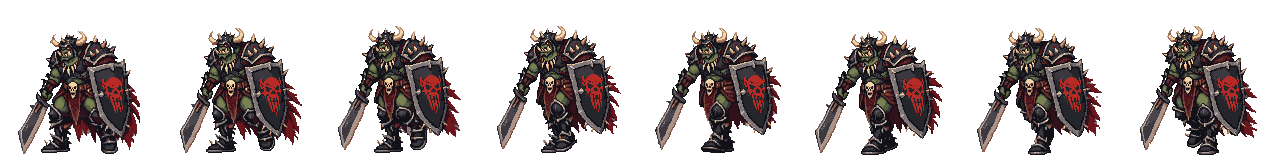
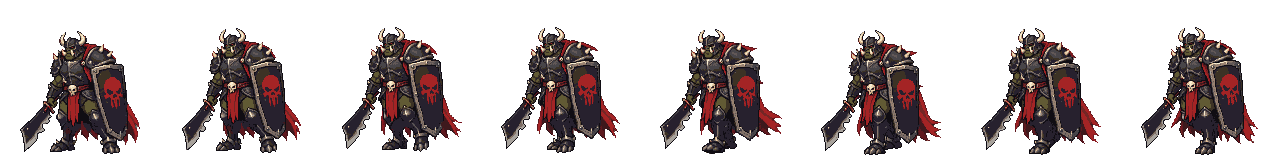
Revamp artstyle

Changed region(s): [[0.0, 0.1562, 1.0, 0.9688]]

diff --git a/js/game/render.js b/js/game/render.js
@@ -382,6 +382,69 @@ function placeScenery(g, table, imgs, x0, y0, w, h, on, inMap, seed) {
   scenery.sort((a, b) => a.y - b.y);
   return scenery;
 }
+/* The forest around the map, for the Pixel Lab terrain: thick far out, thinning toward the map (trees get rarer, bushes,
+   rocks, flowers and mushrooms take over near its edge), plus a few small things on the map itself (flowers, mushrooms,
+   a stone, a little bush) so the field is not cut off from the land around it; few enough not to get in the way. Never
+   on the road or right beside it, no tall tree right in front of the board. Same layout every time for a map (seeded).
+   DECO2 order: oak, pine, bush, rock, flowers, mushrooms. */
+const SMALL = [[0.35, 2], [0.55, 3], [0.8, 4], [1, 5]];   /* [chance up to, DECO2 index]: bush, rock, flowers, mushrooms */
+const FIELD = [[0.4, 4], [0.65, 5], [0.85, 3], [1, 2]];   /* on the map: mostly flowers and mushrooms */
+function placeForest(imgs, x0, y0, w, h, on, inMap, seed) {
+  const out = [], put = (d, x, y, k, ox, oy) => {
+    const s = TS * DECO2[d][2] * k;
+    out.push({ img: imgs[d], x: x * T + T / 2 + ox * T / TS, y: (y + 1) * T + oy * T / TS, s: s * T / TS, big: DECO2[d][2] > 1 });
+  };
+  const pick = (table, r) => table.find(e => r < e[0])[1];
+  for (let y = y0; y < y0 + h; y++) for (let x = x0; x < x0 + w; x++) {
+    if (on(x, y) || on(x, y - 1) || on(x, y + 1)) continue;
+    const r = tileHash(seed, x, y), r2 = tileHash(r * 1e9, x, y), r3 = tileHash(r * 7e8, y, x), ox = (r2 - 0.5) * 18, oy = (r3 - 0.5) * 14;
+    if (inMap(x, y)) {                                     /* the field: a handful of small things */
+      if (r < 0.045) put(pick(FIELD, r2), x, y, 0.75, ox, oy * 0.5 - 18);
+      continue;
+    }
+    const dx = x < 0 ? -x : x >= COLS ? x - COLS + 1 : 0, dy = y < 0 ? -y : y >= ROWS ? y - ROWS + 1 : 0, d = Math.max(dx, dy);
+    const front = y >= ROWS && y <= ROWS + 1 && x >= -1 && x <= COLS;   /* right in front of the board: nothing tall */
+    const tree = front ? 0 : Math.min(0.85, Math.max(0, (d - 1) * 0.15)), small = d <= 3 ? 0.14 : 0.06;
+    if (r < tree) {
+      put(r2 < 0.55 ? 0 : 1, x, y, 0.9 + r3 * 0.25, ox, oy);
+      if (d >= 5 && tileHash(r * 3e9, x, y) < tree * 0.7) put(r3 < 0.5 ? 0 : 1, x, y, 0.85 + r2 * 0.25, -ox - 14, oy - 22);   /* thick: a second tree behind */
+    } else if (r < tree + small) put(pick(SMALL, r2), x, y, 0.9 + r3 * 0.2, ox, oy);
+  }
+  out.sort((a, b) => a.y - b.y);
+  return out;
+}
+/* How the map's grass fades into the forest floor: fully grass on the map, then over FADE_T tiles past its edge less and
+   less, along a wobbly line (smooth noise) so it does not read as a rectangle. Worked out in blocks of 4 px, each kept or
+   dropped at random by how far along the fade it is, so the fade is made of pixels like the art (no blur). Cuts the grass canvas (gx) down to the fade, in
+   place. */
+const FADE_T = 2.5, FB = 4;
+function grassFade(gx, x0, y0, w, h, seed) {
+  const bw = w * TS / FB, bh = h * TS / FB, per = TS / FB;   /* blocks across, blocks per tile */
+  const m = makeCanvas(bw, bh), mx = m && m.getContext('2d');
+  if (!mx || !mx.createImageData) return false;
+  const img = mx.createImageData(bw, bh), d = img && img.data;
+  if (!d) return false;
+  const smooth = t => t * t * (3 - 2 * t);
+  const noise = (x, y) => {   /* value noise, about one bump per 1.3 tiles, in [-1, 1] */
+    const fx = x / 1.3, fy = y / 1.3, ix = Math.floor(fx), iy = Math.floor(fy), ax = smooth(fx - ix), ay = smooth(fy - iy);
+    const n = (i, j) => tileHash(seed + 31, i, j);
+    const top = n(ix, iy) + (n(ix + 1, iy) - n(ix, iy)) * ax, bot = n(ix, iy + 1) + (n(ix + 1, iy + 1) - n(ix, iy + 1)) * ax;
+    return (top + (bot - top) * ay) * 2 - 1;
+  };
+  for (let by = 0; by < bh; by++) for (let bx = 0; bx < bw; bx++) {
+    const wx = x0 + (bx + 0.5) / per, wy = y0 + (by + 0.5) / per;   /* in tiles */
+    const ox = wx < 0 ? -wx : wx > COLS ? wx - COLS : 0, oy = wy < 0 ? -wy : wy > ROWS ? wy - ROWS : 0, dist = Math.hypot(ox, oy);
+    if (dist > FADE_T + 1) continue;
+    const a = dist <= 0 ? 1 : Math.max(0, Math.min(1, 1 - (dist + noise(wx, wy) * 0.8) / FADE_T));
+    if (a > tileHash(seed + 57, bx, by)) d[(by * bw + bx) * 4 + 3] = 255;   /* a random threshold per block: an uneven, grassy edge rather than a pattern */
+  }
+  mx.putImageData(img, 0, 0);
+  gx.globalCompositeOperation = 'destination-in';
+  gx.imageSmoothingEnabled = false;
+  gx.drawImage(m, 0, 0, bw * FB, bh * FB);
+  gx.globalCompositeOperation = 'source-over';
+  return true;
+}
 /* The Pixel Lab terrain (sprites.js terrain()): Wang tiles picked by their corners. The tiles sit on a grid shifted by half
    a tile, so each one's corners are the centres of four map cells, and a corner is grass unless its cell is road: the road
    runs through the middle of its cells, with the grass bank (part of the art) along its edges. The forest floor outside
@@ -396,27 +459,35 @@ function paintTerrain(g, tr) {
   if (!c) return null;
   const cx = c.getContext('2d');
   cx.imageSmoothingEnabled = false;
+  let tx = cx;   /* the canvas tiles are drawn into */
   const tile = (name, dx, dy) => {
     const i = tr.index[name];
     if (i === undefined) return false;
-    cx.drawImage(tr.img, (i % tr.columns) * tr.size, Math.floor(i / tr.columns) * tr.size, tr.size, tr.size, dx, dy, TS, TS);
+    tx.drawImage(tr.img, (i % tr.columns) * tr.size, Math.floor(i / tr.columns) * tr.size, tr.size, tr.size, dx, dy, TS, TS);
     return true;
   };
   const road = roadCells(g, x0 - 1, x0 + w + 1), on = (x, y) => road.has(x + ',' + y), seed = g.seed || 1;
   const inMap = (x, y) => x >= 0 && y >= 0 && x < COLS && y < ROWS;
-  const VAR = { 15: ['15', '15', '15_1', '15_2'], 0: ['0', '0_1'] };
-  for (const pre of ['f', 'g']) {
-    if (pre === 'g') { cx.save(); cx.beginPath(); cx.rect(-x0 * TS, -y0 * TS, COLS * TS, ROWS * TS); cx.clip(); }
+  /* plain tiles most of the time, a variant (flowers, stones, clover, leaves; on the road a damp patch, ruts, a stone) now and then */
+  const VAR = { 15: ['15', '15', '15', '15', '15_1', '15_2', '15_3', '15_4', '15_5', '15_6'], 0: ['0', '0', '0', '0_1', '0_2', '0_3'] };
+  /* The forest floor everywhere, then the map's grass on its own canvas, faded out over a few tiles past the map's edge
+     (a ragged, dithered edge, see grassFade) and laid over it: no hard border between the field and the land around. */
+  const gc = makeCanvas(w * TS, h * TS), gx = gc && gc.getContext('2d');
+  for (const pre of gc ? ['f', 'g'] : ['f']) {
+    tx = pre === 'g' ? gx : cx;
+    if (pre === 'g') gx.imageSmoothingEnabled = false;
     for (let vy = y0; vy <= y0 + h; vy++) for (let vx = x0; vx <= x0 + w; vx++) {
-      if (pre === 'g' && (vx < 0 || vy < 0 || vx > COLS || vy > ROWS)) continue;
+      if (pre === 'g' && (vx < -FADE_T - 1 || vy < -FADE_T - 1 || vx > COLS + FADE_T + 1 || vy > ROWS + FADE_T + 1)) continue;
       const m = (on(vx - 1, vy - 1) ? 0 : 8) + (on(vx, vy - 1) ? 0 : 4) + (on(vx - 1, vy) ? 0 : 2) + (on(vx, vy) ? 0 : 1);
-      const vars = VAR[m], key = vars ? vars[Math.floor(tileHash(seed, mod4(vx), mod4(vy)) * vars.length)] : String(m);
+      /* the forest is repeated past the painted land in 4-tile bands, so its picks repeat every 4 tiles; the map's are free */
+      const r = pre === 'g' ? tileHash(seed + 7, vx, vy) : tileHash(seed, mod4(vx), mod4(vy));
+      const vars = VAR[m], key = vars ? vars[Math.floor(r * vars.length)] : String(m);
       const dx = (vx - x0) * TS - TS / 2, dy = (vy - y0) * TS - TS / 2;
       if (!tile(pre + key, dx, dy)) tile(pre + m, dx, dy);
     }
-    if (pre === 'g') cx.restore();
   }
-  const scenery = placeScenery(g, DECO2, deco, x0, y0, w, h, on, inMap, seed);
+  if (gc && grassFade(gx, x0, y0, w, h, seed)) cx.drawImage(gc, 0, 0);
+  const scenery = placeForest(deco, x0, y0, w, h, on, inMap, seed);
   return { c, g, path: g.path, x0, y0, w, h, scenery };
 }
 function paintOldBoard(g, sh) {
@@ -577,17 +648,23 @@ function drawBoard(ctx, g, v) {
     ctx.fillStyle = '#9a8a62';
     for (const [cx, cy] of g.path) { quad(ctx, cx * T, cy * T, cx * T + T, cy * T + T); ctx.fill(); }
   }
-  /* A faint grid on the map, so heroes are easy to place: lines toward the far side converge, like the board. */
-  ctx.strokeStyle = b ? 'rgba(0,0,0,.08)' : 'rgba(255,255,255,.05)'; ctx.lineWidth = 1;
-  ctx.beginPath();
-  for (let i = 1; i < COLS; i++) { const a = P(i * T, 0), c = P(i * T, MAP_H); ctx.moveTo(a[0], a[1]); ctx.lineTo(c[0], c[1]); }
-  for (let i = 1; i < ROWS; i++) { const a = P(0, i * T), c = P(MAP_W, i * T); ctx.moveTo(a[0], a[1]); ctx.lineTo(c[0], c[1]); }
-  ctx.stroke();
+  /* A grid on the map only while a hero is being placed or moved, so the tiles are easy to aim at: lines toward the far
+     side converge, like the board. */
+  if (v.placing || v.moving) {
+    ctx.strokeStyle = b ? 'rgba(0,0,0,.14)' : 'rgba(255,255,255,.08)'; ctx.lineWidth = 1;
+    ctx.beginPath();
+    for (let i = 1; i < COLS; i++) { const a = P(i * T, 0), c = P(i * T, MAP_H); ctx.moveTo(a[0], a[1]); ctx.lineTo(c[0], c[1]); }
+    for (let i = 1; i < ROWS; i++) { const a = P(0, i * T), c = P(MAP_W, i * T); ctx.moveTo(a[0], a[1]); ctx.lineTo(c[0], c[1]); }
+    ctx.stroke();
+  }
   ctx.fillStyle = '#e5645a'; quad(ctx, end[0] * T + T - 6, end[1] * T, end[0] * T + T, end[1] * T + T); ctx.fill();   /* the gate */
-  /* The edge of the buildable area: a soft shadow outside and a light line on it. */
-  quad(ctx, 0, 0, MAP_W, MAP_H);
-  ctx.strokeStyle = 'rgba(0,0,0,.35)'; ctx.lineWidth = 5; ctx.stroke();
-  ctx.strokeStyle = 'rgba(255,255,255,.22)'; ctx.lineWidth = 1.5; ctx.stroke();
+  /* The edge of the buildable area, while a hero is being placed or moved (with the grid): a soft shadow outside and a
+     light line on it. The rest of the time the field blends into the land around it. */
+  if (v.placing || v.moving || !b) {
+    quad(ctx, 0, 0, MAP_W, MAP_H);
+    ctx.strokeStyle = 'rgba(0,0,0,.35)'; ctx.lineWidth = 5; ctx.stroke();
+    ctx.strokeStyle = 'rgba(255,255,255,.22)'; ctx.lineWidth = 1.5; ctx.stroke();
+  }
 }
 
 /* Health bars go from green (full) through yellow to red (almost dead). */

diff --git a/js/game/sprites.js b/js/game/sprites.js
@@ -58,10 +58,10 @@ export const HERO_ANIM = {
    mirrored when the enemy walks right. foot: where the feet touch the ground; height: the figure's height in frame pixels;
    tiles: how tall it is drawn, in tiles. The walk moves one frame per stride/8 px walked, so faster enemies step faster. */
 export const ENEMY_ANIM = {
-  runner: { name: 'anim_goblin_walk', frame: 160, frames: 8, foot: [80, 153], height: 109, tiles: 1.05 },
-  grunt:  { name: 'anim_orc_walk', frame: 160, frames: 8, foot: [82, 154], height: 129, tiles: 1.4 },
-  brute:  { name: 'anim_troll_walk', frame: 160, frames: 8, foot: [76, 155], height: 127, tiles: 1.65 },
-  boss:   { name: 'anim_warlord_walk', frame: 160, frames: 8, foot: [72, 154], height: 129, tiles: 1.85 }
+  runner: { name: 'anim_goblin_walk', frame: 160, frames: 8, foot: [76, 153], height: 113, tiles: 1.05 },
+  grunt:  { name: 'anim_orc_walk', frame: 160, frames: 8, foot: [72, 155], height: 130, tiles: 1.4 },
+  brute:  { name: 'anim_troll_walk', frame: 160, frames: 8, foot: [83, 154], height: 131, tiles: 1.65 },
+  boss:   { name: 'anim_warlord_walk', frame: 160, frames: 8, foot: [79, 153], height: 128, tiles: 1.85 }
 };
 /* An enemy's walk frame, standing on (x, y) (upright space), facing left (face -1) or right (1); alpha optional. Returns false
    until its art has loaded. d: the distance it has walked, in px. */

diff --git a/js/core/version.js b/js/core/version.js
@@ -2,5 +2,5 @@
    (major.minor.patch); the engine version next to it comes from the engine and only changes with the rules. */
 import { ENGINE_VERSION } from '../engine/world.js';
 
-export const GAME_VERSION = '0.39.0';
+export const GAME_VERSION = '0.43.0';
 export const versionText = () => 'v' + GAME_VERSION + ' · engine ' + ENGINE_VERSION;

diff --git a/art/pixellab/build_terrain.py b/art/pixellab/build_terrain.py
@@ -72,6 +72,27 @@ def meadow(img):
     return img
 
 
+def calm(img):
+    """Quiets the ground so the units stand out on it (the heroes' style: calm areas, sparse sharp marks): the grass and
+    the road lose saturation and most of the contrast of their tufts, speckles and streaks. The darkest browns (the
+    bank's soil and roots) are left alone, so the road edge keeps its shape."""
+    img = img.convert('RGBA')
+    px = img.load()
+    for y in range(img.height):
+        for x in range(img.width):
+            r, g, b, a = px[x, y]
+            h, s, v = colorsys.rgb_to_hsv(r / 255, g / 255, b / 255)
+            if 0.2 <= h <= 0.5 and s > 0.25 and g > r:              # grass
+                s *= 0.95; v = 0.5 + (v - 0.5) * 0.75
+            elif 0.02 <= h <= 0.12 and s > 0.3 and v > 0.36:          # road dirt (not the dark bank)
+                s *= 0.9; v = 0.5 + (v - 0.5) * 0.8
+            else:
+                continue
+            r2, g2, b2 = colorsys.hsv_to_rgb(h, s, min(1, max(0, v)))
+            px[x, y] = (round(r2 * 255), round(g2 * 255), round(b2 * 255), a)
+    return img
+
+
 def main():
     sheet = Image.open(os.path.join(SRC, 'wang_grass_dirt.png')).convert('RGBA')
     tiles, names = [], []
@@ -88,7 +109,7 @@ def main():
     for f in sorted(os.listdir(SRC)):
         if f.startswith('grass_var'): extra.append(('15_' + f[9:-4], Image.open(os.path.join(SRC, f)).convert('RGBA')))
         if f.startswith('dirt_var'): extra.append(('0_' + f[8:-4], Image.open(os.path.join(SRC, f)).convert('RGBA')))
-    for prefix, conv in (('g', meadow), ('f', forest)):
+    for prefix, conv in (('g', calm), ('f', lambda i: forest(calm(i)))):   # the tileset is drawn in the calm palette already; meadow() is kept for reference
         for m in range(16):
             names.append(prefix + str(m)); tiles.append(conv(found[m]))
         for key, img in extra:

diff --git a/README.md b/README.md
@@ -200,6 +200,31 @@ The map fills the window and the HUD floats on top: level, wave and lives in the
 - **Choosing heroes for a level** starts with none picked; you can clear them all, but Start waits for at least one.
 - **Balance (bot):** lineups of three at a level-10 player win levels 1 and 2 every time and level 3 about two times in three; levels 4 and 5 are out of reach for the bot now (they reach waves 21 to 27). Solo heroes have a harder time on level 2 than before, since ultimates are now rare. The bot no longer evolves into the Occult when it plays alone, since that form deals no damage.
 
+## No hard border around the field (Nov 17)
+- The map's grass no longer stops at a straight line: it fades into the darker forest floor over about two and a half tiles past the map's edge, along a wobbly line, broken up block by block (4 px blocks, kept or dropped at random by how far along the fade they are), so it reads as grass thinning out rather than a rectangle (`grassFade` in render.js).
+- The outline of the buildable area (dark shadow and light line) is drawn only while a hero is being placed or moved, together with the grid. Hovering outside the map still shows the red cross. Game version 0.43.0.
+
+## Forest that thickens away from the map (Nov 17)
+- The scenery around the map now follows the distance from it (`placeForest` in render.js): thick forest far out (up to two trees a tile), thinning toward the map, where bushes, rocks, flowers and mushrooms take over and the first rows are open. Trees vary a little in size.
+- A handful of small things now sit on the field itself (flowers, mushrooms, the odd stone or little bush, about one tile in twenty, never on or beside the road), so the map doesn't look cut out of the land. They are only pictures: heroes can still stand on those tiles, and they are drawn under the units. Seeded, so each map always looks the same. Game version 0.42.0.
+
+## Grid only while placing (Nov 17)
+- The map's tile grid is drawn only while a hero is being placed (a hero card picked) or moved; the rest of the time the ground is clean. A little stronger when it shows. Game version 0.41.1.
+
+## New, calmer tileset with more variety (Nov 17)
+- The grass-and-road tileset is remade in Pixel Lab with a fixed calm palette (the muted greens and browns from the retune, plus a few accent colours): flatter grass with fewer tufts, smooth packed dirt with a few pebbles, the same soil bank along the road.
+- More variety: six all-grass variants (white and yellow wildflowers, grey stones, a darker clover patch, plain grass, red and purple flowers, fallen leaves and a twig) and three road variants (a damp patch, faint cart ruts, a flat stone with sprouts), inpainted into the plain tiles with their edges kept so they join everything. On the map they are picked freely (plain tiles most of the time); in the forest they repeat every 4 tiles, as the board view needs.
+- `calm()` is gentler now, since the new tiles are already muted. The previous tiles are kept in art/pixellab/terrain/v1. Only the drawing changed. Game version 0.41.0.
+
+## Calmer ground (Nov 17)
+- The grass and road are toned down so the units stand out on them: less saturation, and most of the contrast of the grass tufts and the road's speckles and streaks taken out (`calm()` in art/pixellab/build_terrain.py, before the meadow/forest colouring). The dark bank soil along the road is left as it was. Only the drawing changed. Game version 0.40.1.
+
+## Enemies and scenery redrawn closer to the heroes' look (Nov 17)
+- The style rule from now on: like the heroes, art is dense but drawn small, with most areas flat (one or two shades) and the detail carried by a few sharp marks, so the eye fills in the rest. No all-over rendered texture or soft gradients.
+- New enemy art in that style, with new 8-frame walks: a **female goblin** (dagger, buckler, tied-back hair), a **female orc** (axe, round shield, long braid), a leaner **troll** (spiked club, plank shield) and a less cluttered **orc warlord** (cleaver, skull tower shield, horned helm, red cape). Made with the Paladin as the style reference and a 28-colour cap. ENEMY_ANIM foot points and heights updated.
+- New scenery in the same style (oak, pine, bush, rock, wildflowers, mushrooms): big flat clumps with sparse sharp highlights instead of fine leaf texture.
+- The first versions are kept in art/pixellab/drafts/v1 and art/pixellab/terrain/v1. Only the drawing changed. Game version 0.40.0.
+
 ## New terrain in the Pixel Lab style (Nov 16)
 - The ground is redrawn in the heroes' style, keeping the old layout: green grass on the map, a dirt road sunk a little below it, and a dark forest floor around it with trees, bushes, rocks, flowers and mushrooms.
 - The grass and road are a Pixel Lab Wang tileset (64 px tiles, the grass raised over the road by a low bank of soil and roots, drawn into the tiles). Tiles are placed on a grid shifted by half a tile: each tile's corners are the centres of four cells, grass unless the cell is road, so the road runs through the middle of its cells with smooth, rounded bends. The all-grass and all-road tiles have extra variants (inpainted middles, edges kept) so the ground repeats less.
